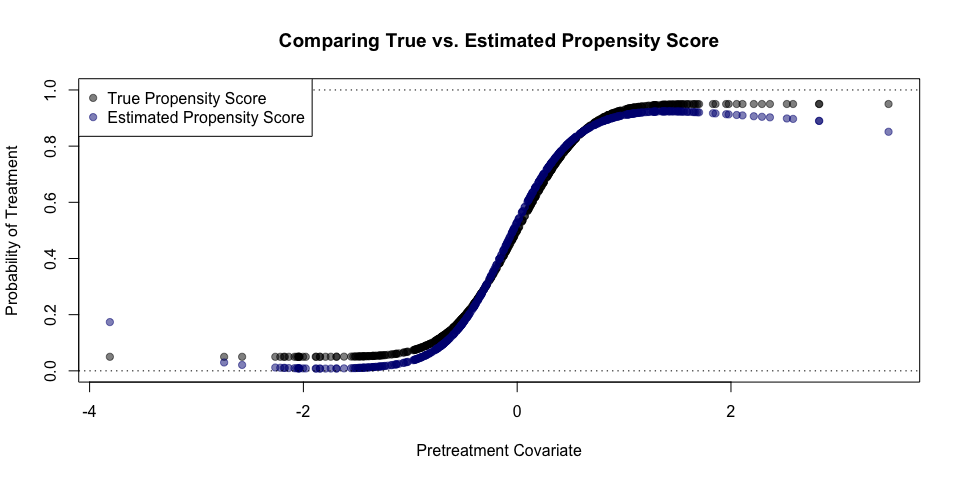
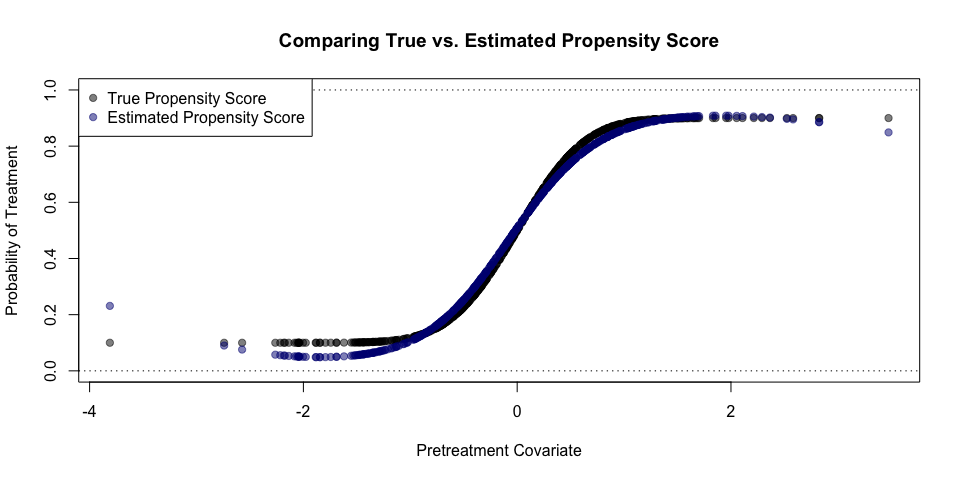
updated a few things to highlight methods

diff --git a/README.md b/README.md
@@ -35,7 +35,7 @@ Provided below is a simple simulation to explore the effectiveness of the optima
 
 Additionally, let the true propensity score be defined as follows,
 
-*e*(*X*<sub>*i*</sub>)=Pr(*T*<sub>*i*</sub> = 1|*X*<sub>*i*</sub>)=0.9 × *Φ*(2 \* *X*<sub>*i*</sub>)+0.05
+*e*(*X*<sub>*i*</sub>)=Pr(*T*<sub>*i*</sub> = 1|*X*<sub>*i*</sub>)=0.8 × *Φ*(2 \* *X*<sub>*i*</sub>)+0.1
 
 where *Φ*(⋅) is the cumulative distribution of the Normal Distribution. Finally, we simulate treatment assignment such that,
 
@@ -55,7 +55,7 @@ where *ϵ*<sub>*i*, *G*</sub> ∼ *N*(0, 0.25<sup>2</sup>) for *G* ∈
 set.seed(201711)
 n_obs <- 500
 pretreatment_cov <- rnorm(n_obs)
-prop_score <- 0.9 * pnorm(2*pretreatment_cov) + 0.05
+prop_score <- 0.8 * pnorm(2*pretreatment_cov) + 0.1
 treatment_assignment <- rbinom(n_obs, size = 1, prob = prop_score)
 ta_logical <- as.logical(treatment_assignment)
 y_t <- pretreatment_cov^2 + 2 + rnorm(n_obs, sd=0.25)
@@ -102,6 +102,14 @@ legend('topleft', c('Treated', 'Control'), lty=1, lwd=3, col=c(t_col, c_col), bg
 
 ![](README_files/figure-markdown_github/unnamed-chunk-5-1.png)
 
+``` r
+knitr::kable(gpbalancer::bal_table(data.frame("Pretreatment Covariate" = pretreatment_cov), 1, ta_logical))
+```
+
+|                        |   NT|   MeanT|    VarT|   NC|    MeanC|    VarC|  StdDiff|  LogRatio|
+|------------------------|----:|-------:|-------:|----:|--------:|-------:|--------:|---------:|
+| Pretreatment.Covariate |  246|  0.6051|  0.6356|  254|  -0.5894|  0.6911|   1.4667|   -0.0419|
+
 ### Visualizing the Potential Outcomes & Observed Responses
 
 Below are visualizations of the expectations of the potential response functions and the observed responses for the sample data.
@@ -141,7 +149,7 @@ original_bias <- (hat_tau-3)
 message('Orignal Bias: ', round(original_bias,3))
 ```
 
-    ## Orignal Bias: 0.611
+    ## Orignal Bias: 0.56
 
 ### Estimating the Propensity Score
 
@@ -155,13 +163,13 @@ est_propscore <- gpbalancer::gpbal(X = as.matrix(pretreatment_cov),
                                    verbose = T)
 ```
 
-    ## Starting Optimization  @   2017-11-21 11:37:07
+    ## Starting Optimization  @   2017-11-21 11:52:45
 
-    ## Finished Optimization  @   2017-11-21 11:37:09
+    ## Finished Optimization  @   2017-11-21 11:52:47
 
-    ## Time Difference          : 1.8992
+    ## Time Difference          : 1.7494
 
-    ## Optimal Covariate Balance: 0.12727985
+    ## Optimal Covariate Balance: 0.00223105
 
 #### Visualizing the Estimated Propensity Score
 
@@ -181,3 +189,29 @@ legend('topleft', c('True Propensity Score', 'Estimated Propensity Score'), pch=
 ```
 
 ![](README_files/figure-markdown_github/unnamed-chunk-9-1.png)
+
+#### Balance Adjusting for the True Propensity Score
+
+``` r
+true_wts <- ifelse(ta_logical, 1/prop_score, 1/(1-prop_score))
+knitr::kable(gpbalancer::bal_table(data.frame("Pretreatment Covariate" = pretreatment_cov), 1, ta_logical, true_wts))
+```
+
+|                        |   NT|   MeanT|    VarT|   NC|  MeanC|    VarC|  StdDiff|  LogRatio|
+|------------------------|----:|-------:|-------:|----:|------:|-------:|--------:|---------:|
+| Pretreatment.Covariate |  246|  0.0932|  0.9112|  254|  0.022|  0.9779|   0.0733|   -0.0353|
+
+#### Balance Adjusting for the Estimated Optimally Balanced Gaussian Process Propensity Score
+
+``` r
+est_wts <- ifelse(ta_logical, 1/est_propscore$ps, 1/(1-est_propscore$ps))
+knitr::kable(gpbalancer::bal_table(data.frame("Pretreatment Covariate" = pretreatment_cov), 1, ta_logical, est_wts))
+```
+
+|                        |   NT|   MeanT|    VarT|   NC|   MeanC|    VarC|  StdDiff|  LogRatio|
+|------------------------|----:|-------:|-------:|----:|-------:|-------:|--------:|---------:|
+| Pretreatment.Covariate |  246|  0.0123|  1.0673|  254|  -0.011|  0.9828|   0.0231|    0.0412|
+
+### Evaluating the Performance of the Optimally Balanced Gaussian Process Propensity Score
+
+We now compare the method when there is no adjustment on the propensity score and when there is adjustment by the true propensity score. To compare these three scenarios the bias, the percent reduction in bias compared with no adjustment, and the mean squared error of the estimators are provided.
